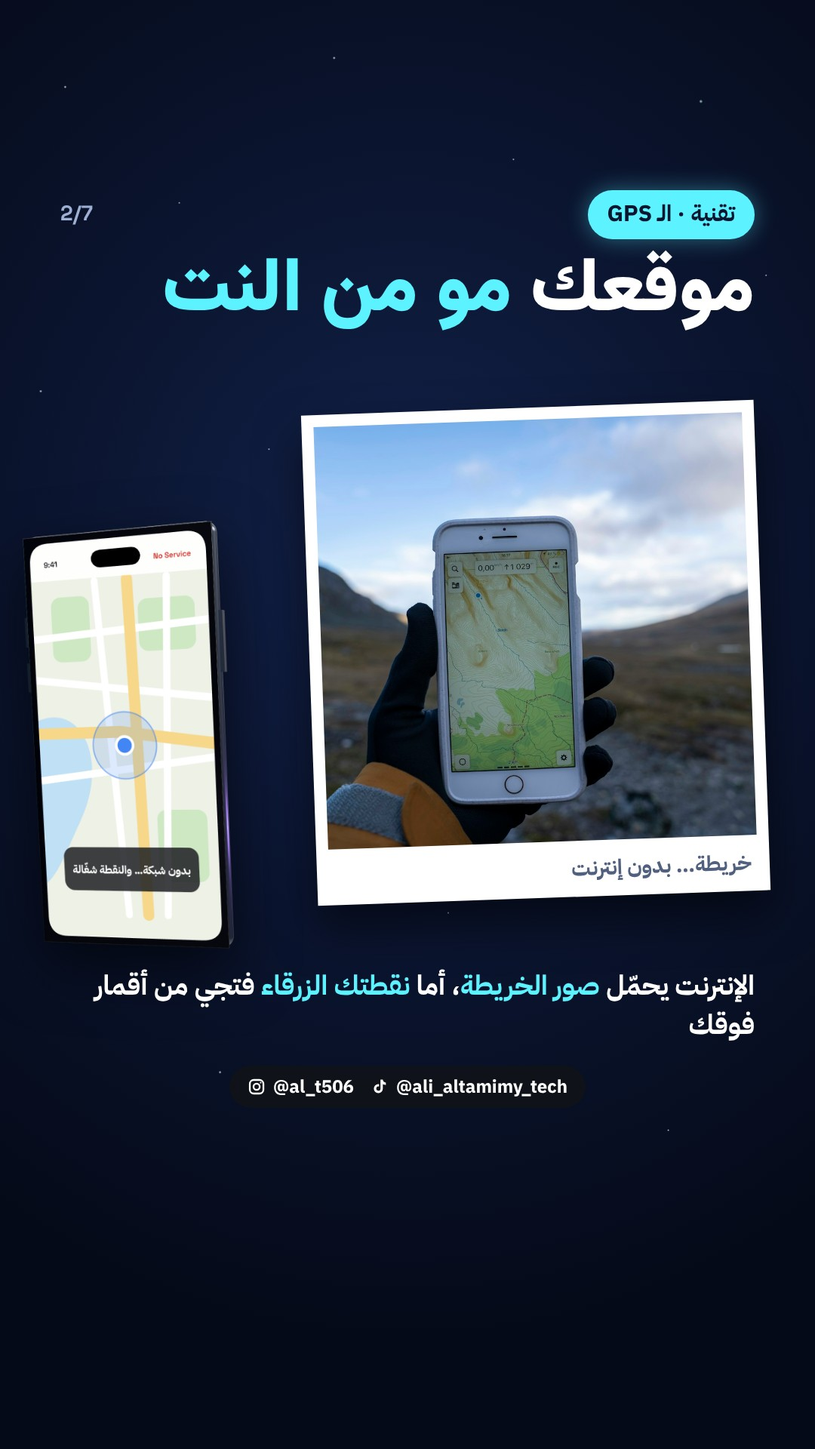
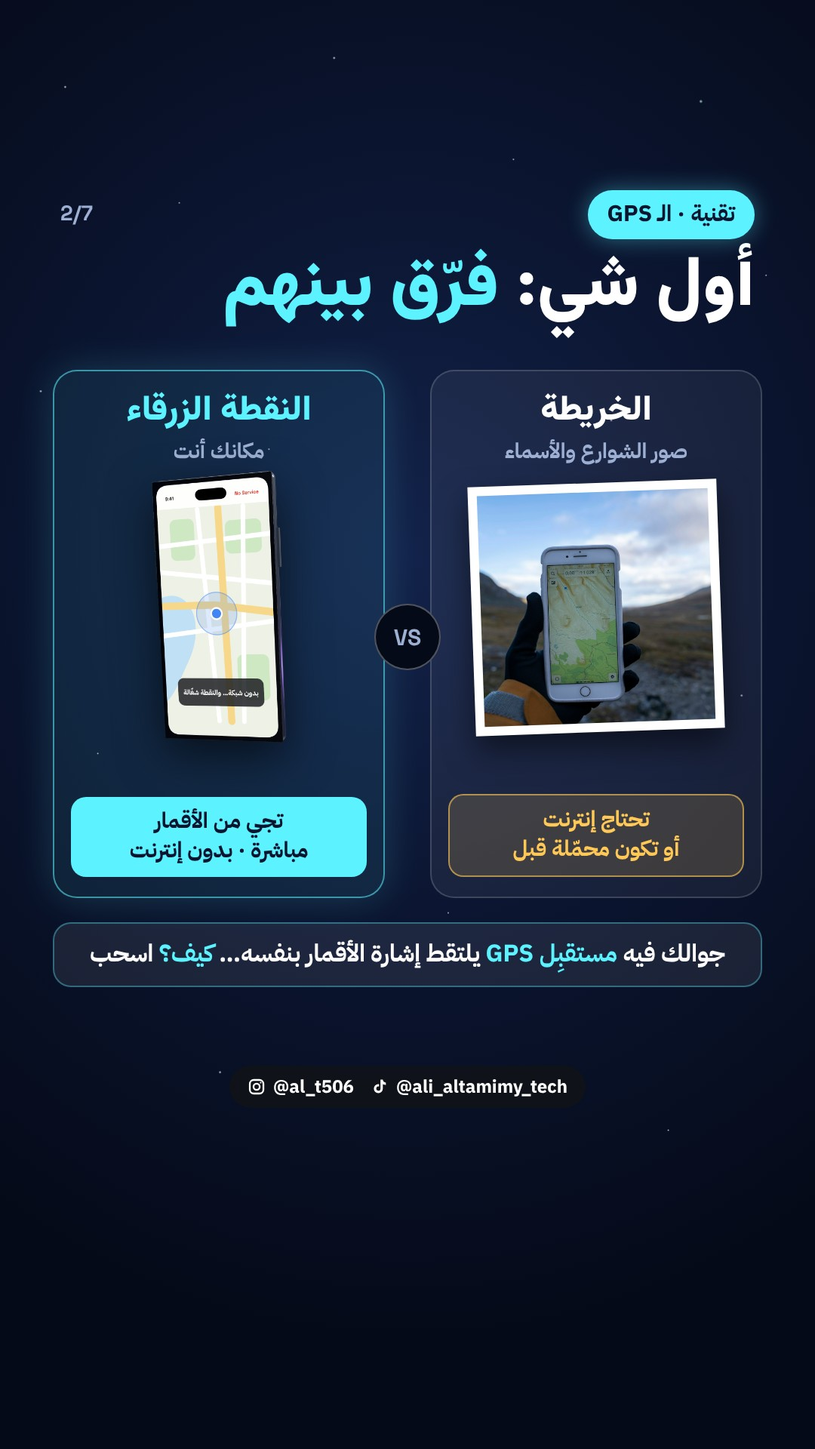
Redo GPS carousel as a clear 3-step explanation of offline positioning
Rebuild 2026-11-05 around satellite broadcast -> delay to distance
(lightning/thunder analogy) -> circle intersection, with a step progress
bar, SVG diagrams, and a corrected note on the fourth satellite.

Claude-Session: https://claude.ai/code/session_01EgEZRcQa5qrBxqbudDi5cV

Changed region(s): [[0.0306, 0.1562, 0.9472, 0.7188], [0.0611, 0.25, 0.0917, 0.2812]]

diff --git a/output/2026-11-05/design.html b/output/2026-11-05/design.html
@@ -12,66 +12,96 @@ body{background:#000;font-family:'IBM Plex Sans Arabic',sans-serif;-webkit-font-
 .en{font-family:'Space Grotesk';font-weight:700;direction:ltr;unicode-bidi:isolate;white-space:nowrap}
 .tag{position:absolute;top:252px;right:80px;display:flex;gap:12px;align-items:center;padding:8px 26px 12px;border-radius:40px;background:var(--cy);color:var(--ink);font:700 30px 'IBM Plex Sans Arabic';z-index:3;box-shadow:0 0 30px rgba(92,242,255,.4)}
 .pg{position:absolute;top:264px;left:80px;font:700 28px 'Space Grotesk';color:var(--mu);direction:ltr;z-index:3}
-h2{position:absolute;top:322px;right:80px;left:40px;line-height:1.3;white-space:nowrap}
+h2{position:absolute;top:322px;right:80px;left:40px;line-height:1.3;white-space:nowrap;font-size:92px}
 h2 em{font-style:normal;color:var(--cy)}
-.pill{position:absolute;padding:14px 26px 18px;border-radius:24px;background:rgba(255,255,255,.08);border:2px solid rgba(92,242,255,.35);font:700 33px/1.45 'IBM Plex Sans Arabic'}
+.pill{position:absolute;padding:16px 28px 20px;border-radius:24px;background:rgba(255,255,255,.08);border:2px solid rgba(92,242,255,.35);font:700 32px/1.45 'IBM Plex Sans Arabic'}
 .pill b{color:var(--cy)}
 
+/* شريط الخطوات */
+.steps{position:absolute;top:470px;right:80px;left:80px;display:flex;gap:14px;direction:rtl}
+.steps>div{flex:1;display:flex;align-items:center;gap:12px;padding:10px 18px 14px;border-radius:18px;background:rgba(255,255,255,.06);border:2px solid rgba(255,255,255,.14);font:700 27px 'IBM Plex Sans Arabic';color:var(--mu)}
+.steps>div>span{flex:none;display:grid;place-items:center;width:42px;height:42px;border-radius:50%;background:rgba(255,255,255,.12);font:700 24px 'Space Grotesk';color:#fff}
+.steps>div.on{background:var(--cy);border-color:var(--cy);color:var(--ink);box-shadow:0 0 30px rgba(92,242,255,.45)}
+.steps>div.on>span{background:var(--ink);color:var(--cy)}
+.steps>div.ok{border-color:rgba(127,240,200,.5);color:var(--mint)}
+.steps>div.ok>span{background:var(--mint);color:var(--ink)}
+
 /* ١ الغلاف */
-.s1 h1{position:absolute;top:322px;right:76px;left:30px;font-size:94px;line-height:1.3;white-space:nowrap;text-shadow:0 8px 40px rgba(0,0,0,.6)}
+.s1 h1{position:absolute;top:322px;right:76px;left:30px;font-size:96px;line-height:1.3;white-space:nowrap;text-shadow:0 8px 40px rgba(0,0,0,.6)}
 .s1 h1 em{display:block;font-style:normal;color:var(--cy)}
 .s1 .sub{position:absolute;top:610px;right:80px;font:700 40px/1.4 'IBM Plex Sans Arabic';color:#E6F2FF}
 .s1 .sub b{color:var(--mint)}
-.s1 .hero{position:absolute;top:650px;left:30px;width:1020px}
+.s1 .hero{position:absolute;top:660px;left:30px;width:1020px}
 .s1 .swipe{position:absolute;top:1398px;left:80px;padding:6px 22px 10px;border-radius:30px;background:rgba(5,10,24,.78);font:700 44px/1 'Vazirmatn';color:var(--cy)}
 .s1 .hbar{position:absolute;top:1404px;right:80px;display:flex;gap:26px;align-items:center;padding:12px 28px;border-radius:14px;background:rgba(5,10,24,.85);border:2px solid rgba(255,255,255,.2);color:#fff;font:700 28px 'IBM Plex Sans Arabic'}
 
-/* ٢ المشكلة */
-.s2 h2{font-size:100px}
-.s2 .pol{position:absolute;top:540px;right:70px;width:600px;height:650px;background:#fff;padding:16px 16px 74px;transform:rotate(-2deg);box-shadow:0 30px 60px rgba(0,0,0,.55)}
+/* ٢ شيئين مختلفين */
+.s2 .col{position:absolute;top:490px;width:440px;height:700px;border-radius:32px;padding:26px 26px 0;background:rgba(255,255,255,.06);border:2px solid rgba(255,255,255,.16);text-align:center}
+.s2 .col.a{right:70px}
+.s2 .col.b{left:70px;border-color:rgba(92,242,255,.55);background:rgba(92,242,255,.08);box-shadow:0 0 50px rgba(92,242,255,.18)}
+.s2 .col h3{font:900 46px/1.2 'Vazirmatn'}
+.s2 .col.b h3{color:var(--cy)}
+.s2 .col p{margin-top:6px;font:700 28px/1.4 'IBM Plex Sans Arabic';color:var(--mu)}
+.s2 .pol{margin:22px auto 0;width:330px;height:330px;background:#fff;padding:12px 12px 12px;transform:rotate(-2deg);box-shadow:0 20px 40px rgba(0,0,0,.5)}
 .s2 .pol img{width:100%;height:100%;object-fit:cover;object-position:40% 50%}
-.s2 .pol span{position:absolute;bottom:16px;right:24px;font:700 28px 'IBM Plex Sans Arabic';color:#51607F}
-.s2 .ph{position:absolute;top:690px;left:30px;width:280px;filter:drop-shadow(0 30px 40px rgba(0,0,0,.6))}
-.s2 .t{position:absolute;top:1280px;right:80px;left:80px;font:700 36px/1.45 'IBM Plex Sans Arabic'}
-.s2 .t b{color:var(--cy)}
+.s2 .ph{display:block;margin:6px auto 0;height:360px;filter:drop-shadow(0 20px 30px rgba(0,0,0,.6))}
+.s2 .need{position:absolute;bottom:26px;right:22px;left:22px;padding:12px 10px 16px;border-radius:20px;font:700 29px/1.35 'IBM Plex Sans Arabic'}
+.s2 .col.a .need{background:rgba(255,200,87,.16);border:2px solid rgba(255,200,87,.6);color:var(--amb)}
+.s2 .col.b .need{background:var(--cy);color:var(--ink)}
+.s2 .vs{position:absolute;top:800px;left:50%;margin-left:-44px;width:88px;height:88px;border-radius:50%;display:grid;place-items:center;background:var(--n0);border:2px solid rgba(255,255,255,.3);font:700 30px 'Space Grotesk';color:var(--mu);z-index:2}
+.s2 .t{top:1222px;right:70px;left:70px;text-align:center}
 
-/* ٣ الأقمار */
-.s3 h2{font-size:100px}
-.s3 .img{position:absolute;top:540px;left:20px;width:540px;filter:drop-shadow(0 20px 40px rgba(0,0,0,.5))}
-.s3 .cards{position:absolute;top:540px;right:70px;width:440px;display:flex;flex-direction:column;gap:18px}
-.s3 .c{padding:16px 22px 20px;border-radius:24px;background:rgba(255,255,255,.08);border:2px solid rgba(92,242,255,.35);font:700 31px/1.4 'IBM Plex Sans Arabic'}
-.s3 .c b{display:block;font:900 52px/1.2 'Vazirmatn';color:var(--cy)}
-.s3 .c i{display:block;margin-top:4px;font:600 25px/1.4 'IBM Plex Sans Arabic';font-style:normal;color:var(--mu)}
-.s3 .note{position:absolute;top:1190px;right:70px;left:70px}
+/* ٣ الخطوة ١ */
+.s3 .img{position:absolute;top:600px;left:10px;width:520px;filter:drop-shadow(0 20px 40px rgba(0,0,0,.5))}
+.s3 .bub{position:absolute;top:600px;right:70px;width:470px;padding:24px 28px 28px;border-radius:30px 30px 30px 6px;background:#fff;color:var(--ink);font:700 33px/1.45 'IBM Plex Sans Arabic';box-shadow:0 20px 50px rgba(0,0,0,.45)}
+.s3 .bub small{display:block;font:700 24px 'IBM Plex Sans Arabic';color:#51607F;margin-bottom:6px}
+.s3 .bub .clk{display:block;margin-top:10px;padding:8px 0 10px;border-radius:14px;background:var(--ink);color:var(--cy);text-align:center;font:700 40px 'Space Grotesk';direction:ltr}
+.s3 .rx{top:960px;right:70px;width:470px;font-size:30px}
+.s3 .facts{position:absolute;top:1214px;right:70px;left:70px;display:flex;gap:14px}
+.s3 .facts>div{flex:1;padding:12px 10px 16px;border-radius:20px;background:rgba(255,255,255,.06);border:2px solid rgba(255,255,255,.14);text-align:center;font:700 24px/1.35 'IBM Plex Sans Arabic';color:var(--mu)}
+.s3 .facts b{display:block;font:900 38px/1.25 'Vazirmatn';color:#fff}
 
-/* ٤ المسافة */
-.s4 h2{font-size:100px}
-.s4 .fm{position:absolute;top:490px;right:50px;left:50px;display:flex;align-items:center;gap:0;direction:rtl}
-.s4 .fm .b{flex:1;height:130px;display:flex;align-items:center;justify-content:center;text-align:center;padding:0 10px;border-radius:24px;background:rgba(255,255,255,.08);border:2px solid rgba(92,242,255,.4);font:700 29px/1.3 'IBM Plex Sans Arabic'}
-.s4 .fm .b.r{background:var(--cy);color:var(--ink);border-color:var(--cy);box-shadow:0 0 34px rgba(92,242,255,.5)}
-.s4 .fm .o{flex:none;width:46px;text-align:center;font:700 44px 'Space Grotesk';color:var(--mu)}
-.s4 .img{position:absolute;top:640px;left:140px;width:800px;-webkit-mask-image:radial-gradient(circle at 50% 50%,#000 48%,transparent 70%);mask-image:radial-gradient(circle at 50% 50%,#000 48%,transparent 70%)}
-.s4 .cap{position:absolute;top:1370px;right:70px;left:70px;text-align:center;font:700 32px/1.4 'IBM Plex Sans Arabic';color:#E6F2FF;display:none}
-.s4 .p1{top:1150px;right:60px;width:400px;font-size:30px;background:rgba(5,10,24,.8)}
-.s4 .p2{top:690px;right:60px;width:300px;font-size:28px;background:rgba(5,10,24,.8)}
+/* ٤ الخطوة ٢ */
+.s4 .ana{position:absolute;top:580px;right:70px;left:70px;padding:22px 30px 26px;border-radius:28px;background:rgba(255,200,87,.1);border:2px solid rgba(255,200,87,.5)}
+.s4 .ana h4{font:900 36px/1.3 'Vazirmatn';color:var(--amb)}
+.s4 .ana p{margin-top:6px;font:700 31px/1.45 'IBM Plex Sans Arabic'}
+.s4 .ana p b{color:var(--amb)}
+.s4 .tl{position:absolute;top:840px;right:70px;left:70px;height:330px;border-radius:28px;background:rgba(92,242,255,.07);border:2px solid rgba(92,242,255,.45)}
+.s4 .tl h4{position:absolute;top:18px;right:30px;font:900 36px/1.3 'Vazirmatn';color:var(--cy)}
+.s4 .tl svg{position:absolute;top:80px;left:30px}
+.s4 .row{position:absolute;display:flex;flex-direction:column;align-items:center;gap:2px;font:700 25px/1.3 'IBM Plex Sans Arabic';color:var(--mu)}
+.s4 .row .en{font-size:34px;color:#fff}
+.s4 .row.r1{top:200px;right:40px}
+.s4 .row.r2{top:200px;left:40px}
+.s4 .row.r2 .en{color:var(--cy)}
+.s4 .dly{position:absolute;top:96px;left:50%;transform:translateX(-50%);padding:6px 20px 10px;border-radius:30px;background:var(--cy);color:var(--ink);font:700 28px 'IBM Plex Sans Arabic';white-space:nowrap}
+.s4 .eq{position:absolute;top:1196px;right:70px;left:70px;display:flex;align-items:center;direction:rtl}
+.s4 .eq .b{flex:1;height:118px;display:flex;flex-direction:column;align-items:center;justify-content:center;text-align:center;border-radius:22px;background:rgba(255,255,255,.08);border:2px solid rgba(92,242,255,.4);font:700 23px/1.3 'IBM Plex Sans Arabic';color:var(--mu)}
+.s4 .eq .b .en{font-size:34px;color:#fff}
+.s4 .eq .b.r{background:var(--cy);border-color:var(--cy);color:var(--ink);box-shadow:0 0 34px rgba(92,242,255,.5)}
+.s4 .eq .b.r .en{color:var(--ink)}
+.s4 .eq .o{flex:none;width:44px;text-align:center;font:700 42px 'Space Grotesk';color:var(--mu)}
+.s4 .nt{position:absolute;top:1330px;right:70px;left:70px;text-align:center;font:600 24px 'IBM Plex Sans Arabic';color:var(--mu)}
 
-/* ٥ النتيجة */
-.s5 h2{font-size:100px}
-.s5 .img{position:absolute;top:520px;left:20px;width:560px;filter:drop-shadow(0 24px 40px rgba(0,0,0,.55))}
-.s5 .big{position:absolute;top:560px;right:70px;width:410px;text-align:center}
-.s5 .big .n{font:700 190px/1 'Space Grotesk';color:var(--cy);direction:ltr;text-shadow:0 0 50px rgba(92,242,255,.5)}
-.s5 .big .u{font:900 56px/1.2 'Vazirmatn'}
-.s5 .big .d{margin-top:10px;font:700 31px/1.45 'IBM Plex Sans Arabic';color:#E6F2FF}
-.s5 .pill.w{top:1170px;right:70px;left:70px;border-color:rgba(255,200,87,.6)}
-.s5 .pill.w b{color:var(--amb)}
+/* ٥ الخطوة ٣ */
+.s5 .rw{position:absolute;right:70px;left:70px;height:226px;display:flex;align-items:center;gap:26px;padding:0 26px 0 14px;border-radius:28px;background:rgba(255,255,255,.05);border:2px solid rgba(255,255,255,.14)}
+.s5 .rw.r1{top:576px}.s5 .rw.r2{top:822px}.s5 .rw.r3{top:1068px;background:rgba(92,242,255,.09);border-color:rgba(92,242,255,.6);box-shadow:0 0 40px rgba(92,242,255,.2)}
+.s5 .rw .tx{flex:1;font:700 31px/1.4 'IBM Plex Sans Arabic'}
+.s5 .rw .tx b{display:block;font:900 42px/1.25 'Vazirmatn';color:var(--cy)}
+.s5 .rw svg{flex:none}
+.s5 .p4{top:1314px;right:70px;left:70px;font-size:27px;padding:12px 26px 14px;border-color:rgba(197,139,255,.5)}
+.s5 .p4 b{color:var(--vio)}
 
-/* ٦ وين يضعف */
-.s6 h2{font-size:100px}
-.s6 .img{position:absolute;top:520px;left:20px;width:520px;filter:drop-shadow(0 24px 40px rgba(0,0,0,.55))}
-.s6 .lst{position:absolute;top:520px;right:70px;width:470px;display:flex;flex-direction:column;gap:16px}
-.s6 .it{display:flex;gap:14px;align-items:flex-start;padding:16px 20px 18px;border-radius:24px;background:rgba(255,255,255,.08);border:2px solid rgba(255,255,255,.18);font:700 29px/1.4 'IBM Plex Sans Arabic'}
-.s6 .it>span{flex:none;display:grid;place-items:center;width:46px;height:46px;border-radius:50%;background:var(--amb);color:var(--ink);font:700 26px 'Space Grotesk'}
-.s6 .it i{display:block;margin-top:4px;font:600 24px/1.4 'IBM Plex Sans Arabic';font-style:normal;color:var(--mu)}
+/* ٦ عملياً */
+.s6 .img{position:absolute;top:500px;left:20px;width:470px;filter:drop-shadow(0 24px 40px rgba(0,0,0,.55))}
+.s6 .big{position:absolute;top:520px;right:70px;width:470px;padding:20px 20px 24px;border-radius:30px;text-align:center;background:rgba(92,242,255,.08);border:2px solid rgba(92,242,255,.5)}
+.s6 .big .n{font:700 150px/1 'Space Grotesk';color:var(--cy);direction:ltr;text-shadow:0 0 50px rgba(92,242,255,.5)}
+.s6 .big .u{font:900 50px/1.2 'Vazirmatn'}
+.s6 .big .d{margin-top:6px;font:700 27px/1.4 'IBM Plex Sans Arabic';color:#E6F2FF}
+.s6 .lst{position:absolute;top:930px;right:70px;left:70px;display:flex;flex-direction:column;gap:14px}
+.s6 .it{display:flex;gap:16px;align-items:center;padding:14px 22px 16px;border-radius:24px;background:rgba(255,255,255,.07);border:2px solid rgba(255,255,255,.16);font:700 30px/1.35 'IBM Plex Sans Arabic'}
+.s6 .it>span{flex:none;display:grid;place-items:center;width:48px;height:48px;border-radius:50%;background:var(--amb);color:var(--ink);font:700 26px 'Space Grotesk'}
+.s6 .it i{display:block;margin-top:2px;font:600 25px/1.4 'IBM Plex Sans Arabic';font-style:normal;color:var(--mu)}
 
 /* ٧ المتابعة */
 .s7 h2{font-size:84px;text-align:center;right:60px;left:60px;line-height:1.35}
@@ -91,77 +121,131 @@ h2 em{font-style:normal;color:var(--cy)}
 <section class="slide s1">
   <div class="stars" data-safe="ignore"></div>
   <div class="tag">تقنية · الـ GPS</div>
-  <h1 class="hd">الإنترنت مقطوع…<em>والخريطة تعرف مكانك؟</em></h1>
-  <div class="sub">السر مو بالإنترنت… <b>السر بالفضاء</b></div>
+  <h1 class="hd">بدون إنترنت…<em>كيف جوالك يعرف وينك؟</em></h1>
+  <div class="sub">الجواب <b>3 خطوات</b>… من الفضاء لجيبك</div>
   <img class="hero" src="assets/k0.png" alt="">
   <div class="swipe">اسحب ←</div>
   <div class="hbar">{{HANDLES}}</div>
 </section>
 
-<!-- ٢ المشكلة -->
+<!-- ٢ شيئين مختلفين -->
 <section class="slide s2">
   <div class="stars" data-safe="ignore"></div>
   <div class="tag">تقنية · الـ GPS</div>
   <div class="pg">2/7</div>
-  <h2 class="hd">موقعك <em>مو من النت</em></h2>
-  <div class="pol"><img src="assets/hand.jpg" alt=""><span>خريطة… بدون إنترنت</span></div>
-  <img class="ph" src="assets/k5.png" alt="">
-  <div class="t">الإنترنت يحمّل <b>صور الخريطة</b>، أما <b>نقطتك الزرقاء</b> فتجي من أقمار فوقك</div>
+  <h2 class="hd">أول شي: <em>فرّق بينهم</em></h2>
+  <div class="col a">
+    <h3>الخريطة</h3>
+    <p>صور الشوارع والأسماء</p>
+    <div class="pol"><img src="assets/hand.jpg" alt=""></div>
+    <div class="need">تحتاج إنترنت<br>أو تكون محمّلة قبل</div>
+  </div>
+  <div class="vs">VS</div>
+  <div class="col b">
+    <h3>النقطة الزرقاء</h3>
+    <p>مكانك أنت</p>
+    <img class="ph" src="assets/k5.png" alt="">
+    <div class="need">تجي من الأقمار<br>مباشرة · بدون إنترنت</div>
+  </div>
+  <div class="pill t">جوالك فيه <b>مستقبِل GPS</b> يلتقط إشارة الأقمار بنفسه… <b>كيف؟</b> اسحب</div>
 </section>
 
-<!-- ٣ الأقمار -->
+<!-- ٣ الخطوة ١ -->
 <section class="slide s3">
   <div class="stars" data-safe="ignore"></div>
   <div class="tag">تقنية · الـ GPS</div>
   <div class="pg">3/7</div>
-  <h2 class="hd">أقمار <em>تبثّ الوقت</em></h2>
+  <h2 class="hd">القمر <em>ينادي</em></h2>
+  <div class="steps"><div class="on"><span>1</span>القمر يبث</div><div><span>2</span>الجوال يحسب</div><div><span>3</span>نقطتك</div></div>
   <img class="img" src="assets/k1.png" alt="">
-  <div class="cards">
-    <div class="c"><b><span class="en">20,200</span> كم</b>ارتفاعها تقريباً فوق الأرض<i>مدار متوسط</i></div>
-    <div class="c"><b>+30 قمر</b>شغّالة الحين<i>(31 حسب gps.gov يوليو 2023)</i></div>
-    <div class="c"><b>ساعة دقيقة</b>كل قمر يبث وقته وموقعه باستمرار</div>
+  <div class="bub"><small>رسالة كل قمر، باستمرار:</small>«أنا هنا بالضبط… والساعة عندي الحين:»<span class="clk">10:00:00.000</span></div>
+  <div class="pill rx">إشارة راديو <b>باتجاه واحد</b> من القمر لجوالك، مثل <b>راديو السيارة</b>: يستقبل بدون إنترنت</div>
+  <div class="facts">
+    <div><b><span class="en">20,200</span> كم</b>ارتفاع الأقمار تقريباً</div>
+    <div><b>31 قمر</b>شغّالة <span class="en" style="font-size:20px">(gps.gov 2023)</span></div>
+    <div><b>ساعات ذرّية</b>داخل الأقمار</div>
   </div>
-  <div class="pill note">تشغّلها <b>قوة الفضاء الأمريكية</b>، والخدمة المدنية <b>متاحة للجميع مجاناً</b> حول العالم</div>
 </section>
 
-<!-- ٤ المسافة -->
+<!-- ٤ الخطوة ٢ -->
 <section class="slide s4">
   <div class="stars" data-safe="ignore"></div>
   <div class="tag">تقنية · الـ GPS</div>
   <div class="pg">4/7</div>
-  <h2 class="hd">الوقت ← <em>المسافة</em></h2>
-  <div class="fm">
-    <div class="b">زمن وصول الإشارة</div><div class="o">×</div>
-    <div class="b">سرعة الضوء</div><div class="o">=</div>
-    <div class="b r">المسافة للقمر</div>
+  <h2 class="hd">كم <em>تأخرت الرسالة؟</em></h2>
+  <div class="steps"><div class="ok"><span>1</span>القمر يبث</div><div class="on"><span>2</span>الجوال يحسب</div><div><span>3</span>نقطتك</div></div>
+  <div class="ana">
+    <h4>نفس فكرة البرق والرعد ⚡</h4>
+    <p>تشوف البرق، وتعدّ <b>3 ثواني</b> لين يوصلك الرعد… يعني العاصفة بعيدة عنك <b style="white-space:nowrap">تقريباً 1 كم</b></p>
   </div>
-  <img class="img" src="assets/k2.png" alt="">
-  <div class="pill p2">كل قمر = <b>كرة مسافة</b>، وأنت عند <b>التقائها</b></div>
-  <div class="pill p1"><b>٣ أقمار</b> للمكان على الخريطة، و<b>٤</b> مع الارتفاع، والساعات تتزامن بدقة عالية جداً</div>
+  <div class="tl">
+    <h4>جوالك يسوي نفس الشي</h4>
+    <svg width="880" height="120" viewBox="0 0 880 120" data-safe="ignore">
+      <defs><marker id="ar" markerWidth="14" markerHeight="14" refX="10" refY="7" orient="auto"><path d="M0 0 L14 7 L0 14z" fill="#5CF2FF"/></marker></defs>
+      <line x1="830" y1="50" x2="60" y2="50" stroke="#5CF2FF" stroke-width="5" stroke-dasharray="16 12" marker-end="url(#ar)"/>
+      <circle cx="840" cy="50" r="22" fill="#fff"/><rect x="800" y="44" width="80" height="12" rx="4" fill="#9DB0D3"/>
+      <rect x="22" y="14" width="40" height="72" rx="9" fill="#13224A" stroke="#5CF2FF" stroke-width="4"/><circle cx="42" cy="50" r="7" fill="#5CF2FF"/>
+    </svg>
+    <div class="dly">التأخير: <span class="en">0.067</span> ثانية</div>
+    <div class="row r1"><span class="en">10:00:00.000</span>طلعت من القمر</div>
+    <div class="row r2"><span class="en">10:00:00.067</span>وصلت جوالك</div>
+  </div>
+  <div class="eq">
+    <div class="b"><span class="en">0.067</span>ثانية تأخير</div><div class="o">×</div>
+    <div class="b"><span class="en">300,000</span>كم/ث سرعة الضوء</div><div class="o">=</div>
+    <div class="b r"><span class="en">~20,000</span>كم بُعدك عن القمر</div>
+  </div>
+  <div class="nt">الأرقام تقريبية للتوضيح · سرعة الضوء تقريباً 300 ألف كم بالثانية</div>
 </section>
 
-<!-- ٥ النتيجة -->
+<!-- ٥ الخطوة ٣ -->
 <section class="slide s5">
   <div class="stars" data-safe="ignore"></div>
   <div class="tag">تقنية · الـ GPS</div>
   <div class="pg">5/7</div>
-  <h2 class="hd">والنتيجة: <em>نقطتك</em></h2>
-  <img class="img" src="assets/k3.png" alt="">
-  <div class="big"><div class="n">4.9</div><div class="u">متر</div><div class="d">دقة جوالك تقريباً تحت سماء مفتوحة <span class="en" style="font-size:26px;color:#9DB0D3">(gps.gov)</span></div></div>
-  <div class="pill w">الدقة <b>تضعف</b> قرب المباني والجسور والأشجار</div>
+  <h2 class="hd">والدوائر <em>تتقاطع</em></h2>
+  <div class="steps"><div class="ok"><span>1</span>القمر يبث</div><div class="ok"><span>2</span>الجوال يحسب</div><div class="on"><span>3</span>نقطتك</div></div>
+  <div class="rw r1">
+    <svg width="222" height="216" viewBox="-66 -66 446 434" data-safe="ignore">
+      <circle cx="60" cy="60" r="114" fill="rgba(92,242,255,.08)" stroke="#5CF2FF" stroke-width="7"/>
+      <circle cx="60" cy="60" r="16" fill="#fff"/>
+    </svg>
+    <div class="tx"><b>قمر واحد</b>تعرف بُعدك عنه، يعني أنت في أي مكان على هالدائرة</div>
+  </div>
+  <div class="rw r2">
+    <svg width="222" height="216" viewBox="-66 -66 446 434" data-safe="ignore">
+      <circle cx="60" cy="60" r="114" fill="none" stroke="#5CF2FF" stroke-width="7"/>
+      <circle cx="250" cy="80" r="112" fill="none" stroke="#C58BFF" stroke-width="7"/>
+      <circle cx="60" cy="60" r="16" fill="#fff"/><circle cx="250" cy="80" r="16" fill="#fff"/>
+      <circle cx="150" cy="130" r="16" fill="#FFC857"/><circle cx="163" cy="10" r="16" fill="#FFC857"/>
+    </svg>
+    <div class="tx"><b>قمرين</b>الدائرتين تتقاطع بنقطتين، باقي احتمالين</div>
+  </div>
+  <div class="rw r3">
+    <svg width="222" height="216" viewBox="-66 -66 446 434" data-safe="ignore">
+      <circle cx="60" cy="60" r="114" fill="none" stroke="#5CF2FF" stroke-width="7"/>
+      <circle cx="250" cy="80" r="112" fill="none" stroke="#C58BFF" stroke-width="7"/>
+      <circle cx="140" cy="240" r="110" fill="none" stroke="#7FF0C8" stroke-width="7"/>
+      <circle cx="60" cy="60" r="16" fill="#fff"/><circle cx="250" cy="80" r="16" fill="#fff"/><circle cx="140" cy="240" r="16" fill="#fff"/>
+      <circle cx="150" cy="130" r="40" fill="rgba(92,242,255,.35)"/><circle cx="150" cy="130" r="20" fill="#2F7BFF" stroke="#fff" stroke-width="6"/>
+    </svg>
+    <div class="tx"><b>3 أقمار = نقطة وحدة</b>المكان الوحيد اللي يناسب الثلاث مسافات = أنت</div>
+  </div>
+  <div class="pill p4"><b>وقمر رابع</b> يصحّح ساعة جوالك (مو ذرّية) · وبالواقع هي كرات مو دوائر</div>
 </section>
 
-<!-- ٦ وين يضعف -->
+<!-- ٦ عملياً -->
 <section class="slide s6">
   <div class="stars" data-safe="ignore"></div>
   <div class="tag">تقنية · الـ GPS</div>
   <div class="pg">6/7</div>
-  <h2 class="hd">وين <em>يضعف؟</em></h2>
+  <h2 class="hd">وش يعني <em>لك؟</em></h2>
   <img class="img" src="assets/k4.png" alt="">
+  <div class="big"><div class="n">4.9</div><div class="u">متر</div><div class="d">دقة الجوال تقريباً تحت سماء مفتوحة <span class="en" style="font-size:22px;color:#9DB0D3">(gps.gov)</span></div></div>
   <div class="lst">
-    <div class="it"><span>1</span><div>بين المباني العالية<i>الإشارة تنحجب فتضعف الدقة</i></div></div>
-    <div class="it"><span>2</span><div>أول تحديد بدون اتصال<i>أبطأ، والاتصال يسرّعه <span class="en" style="font-size:22px">(A-GPS)</span></i></div></div>
-    <div class="it"><span>3</span><div>الخريطة نفسها<i>نزّل منطقتها قبل السفر (حسب تطبيقك)</i></div></div>
+    <div class="it"><span>1</span><div>بين المباني والجسور والأشجار<i>الإشارة تنحجب أو ترتد، فتقل الدقة</i></div></div>
+    <div class="it"><span>2</span><div>أول تحديد بدون نت أبطأ شوي<i>الاتصال يسرّعه فقط <span class="en" style="font-size:22px">(A-GPS)</span>، مو شرط</i></div></div>
+    <div class="it"><span>3</span><div>نزّل خريطة منطقتك قبل السفر<i>النقطة تشتغل، بس الشوارع تبي صور محمّلة</i></div></div>
   </div>
 </section>
 
@@ -170,12 +254,12 @@ h2 em{font-style:normal;color:var(--cy)}
   <div class="stars" data-safe="ignore"></div>
   <div class="tag">تقنية · الـ GPS</div>
   <div class="pg">7/7</div>
-  <h2 class="hd">جوالك يسمع الفضاء…<br><em>وانت ما تدري</em></h2>
+  <h2 class="hd">جوالك ما يسأل النت…<br><em>يسمع الفضاء</em></h2>
   <div class="ring"><div class="face"><img src="{{AVATAR}}" alt=""></div></div>
   <div class="nm">علي التميمي</div>
   <div class="ds">كل يوم معلومة تقنية تهمّك</div>
   <div class="soc"><div>{{HANDLES}}</div></div>
-  <div class="ask">وين آخر مرة اعتمدت على الـ GPS بدون نت؟</div>
+  <div class="ask">أرسلها لأحد يحسب الـ GPS يحتاج نت 👇</div>
 </section>
 
 </body>

diff --git a/output/2026-11-05/lesson.md b/output/2026-11-05/lesson.md
@@ -3,10 +3,10 @@
 ## الفكرة
 الإنترنت المقطوع يوقف **صور الخريطة** (لو ما نزّلتها)، لكنه ما يوقف **موقعك**. النقطة الزرقاء تجي من **أقمار GPS** فوقك، وجوالك يستقبل إشارتها ويحسب مكانه بنفسه.
 
-## كيف؟
-1. **الأقمار:** تدور في مدار متوسط على ارتفاع قرابة **20,200 كم**. الولايات المتحدة ملتزمة بإبقاء **24 قمراً شغّالاً على الأقل** (95% من الوقت) موزعة على **ستة مدارات**، وعملياً فيه أكثر (أكثر من 30؛ سجّلت gps.gov **31** قمراً شغّالاً في يوليو 2023). كل قمر **يبث وقته الدقيق وموقعه** باستمرار، وتشغّلها **قوة الفضاء الأمريكية**، والخدمة المدنية **متاحة للجميع مجاناً** حول العالم.
-2. **الوقت ← المسافة:** جوالك يقارن وقت إرسال الإشارة بوقت وصولها، ويضرب الفرق في **سرعة الضوء** فيطلع له بُعده عن القمر. الطريقة تعتمد على ساعات متزامنة بدقة عالية جداً (أجزاء من مليار من الثانية).
-3. **التقاطع:** كل قمر يعطيك **كرة مسافة**. من **٣ أقمار** تحدد مكانك على الخريطة، ومع **٤ أقمار** تعرف الارتفاع أيضاً. ونقطتك عند التقاء الكرات.
+## كيف؟ (3 خطوات)
+1. **القمر يبث:** الأقمار في مدار متوسط على ارتفاع قرابة **20,200 كم** (ملتزمة الولايات المتحدة بـ24 قمراً شغّالاً على الأقل 95% من الوقت في ستة مدارات، وسجّلت gps.gov **31** في يوليو 2023). كل قمر **يبث إشارة باتجاه واحد** فيها موقعه ووقته الدقيق (ساعات ذرّية)، وجوالك يستقبلها بمستقبِل الـ GPS مثل ما يستقبل راديو السيارة المحطة، بدون إنترنت. تشغّلها **قوة الفضاء الأمريكية** والخدمة المدنية مجانية.
+2. **الجوال يحسب التأخير:** مثل البرق والرعد (3 ثواني ≈ 1 كم). زمن الوصول = وقت الوصول − وقت الإرسال، والمسافة = الزمن × سرعة الضوء (~300 ألف كم/ث). مثال تقريبي: 0.067 ثانية ≈ 20,000 كم.
+3. **التقاطع:** مسافة قمر واحد = أنت على دائرة (بالواقع كرة) حوله؛ قمرين = نقطتين محتملة؛ 3 أقمار = نقطة وحدة. وساعة الجوال مو ذرّية، فيحتاج **قمر رابع** يحل خطأ ساعته مع الموقع (4 مجاهيل: x, y, z, والوقت). وغلطة جزء من مليون ثانية = ~300 متر.
 
 ## الدقة
 تقول gps.gov إن الجوالات تكون دقيقتها عادةً ضمن دائرة نصف قطرها **4.9 متر** تحت سماء مفتوحة، و**تضعف** قرب المباني والجسور والأشجار.
@@ -22,10 +22,16 @@
 «الـ GPS يحتاج نت». الموقع لا، **الخريطة والبحث وحركة المرور** هي اللي تحتاجه.
 
 ## المصادر (تحقق 2026-11-05)
+- GPS.gov (أرشيف): الأقمار تبث إشارات باتجاه واحد، والمستقبل يحسب موقعه منها: https://webarchive.library.unt.edu/eot2008/20080916003723/http:/gps.gov/systems/gps/index.html
+- GPS.gov: ملصق «How GPS Works» (زمن الوصول × سرعة الضوء = المسافة): https://www.gps.gov/multimedia/poster/poster-web.pdf
+- Penn State GEOG 862: The Navigation Solution (القمر الرابع لخطأ ساعة المستقبل): https://www.e-education.psu.edu/geog862/node/1724
+- قاعدة البرق والرعد (3 ثواني ≈ 1 كم): Hong Kong Observatory: https://www.hko.gov.hk/en/education/weather/meteorology-basics/00021-why-does-lightning-always-come-before-thunder.html و ScienceNotes: https://sciencenotes.org/time-between-lightning-and-thunder-how-far-away-is-lightning/
 - GPS.gov: Space Segment (24 قمراً، ستة مدارات، 20,200 كم، أكثر من 24 عملياً، 31 قمراً يوليو 2023، الخدمة المدنية متاحة للجميع): https://www.gps.gov/space-segment
 - GPS.gov: GPS Accuracy (دقة الجوالات 4.9 م تحت سماء مفتوحة، وتضعف قرب المباني والجسور والأشجار): https://www.gps.gov/systems/gps/performance/accuracy/
 - U.S. Space Force: Global Positioning System (التشغيل): https://www.spaceforce.mil/about-us/fact-sheets/article/2197765/global-positioning-system/
 - NASA: GPS: https://www.nasa.gov/directorates/somd/space-communications-navigation-program/gps/
-- شرح الحساب (٣ أقمار للمكان و٤ للارتفاع، الوقت ← المسافة بسرعة الضوء): HowStuffWorks: https://electronics.howstuffworks.com/gps.htm (مصدر ثانوي)
+- شرح الحساب (الوقت ← المسافة بسرعة الضوء): HowStuffWorks: https://electronics.howstuffworks.com/gps.htm (مصدر ثانوي)
 
 > www.gps.gov (المصدر المرشّح في بنك المواضيع) ما يفتح من الحاوية (WebFetch)، فتحققت بـ WebSearch على نفس الصفحات الرسمية. وشرح «٣ أقمار و٤ أقمار» والتزامن من مصادر ثانوية؛ وتفاصيل الخرائط دون اتصال حسب كل تطبيق ما تحققت منها فكتبتها عامة، وما ذكرت أن مستقبل الجوال لا يرسل شيئاً لأني ما قدرت أثبتها نصاً.
+
+> تعديل بعد ملاحظة علي: الشرح الأول ما وضّح «كيف يعرف بدون نت»، فأعدت الصياغة كـ3 خطوات بتشبيه البرق والرعد، وصححت دور القمر الرابع (تصحيح ساعة الجوال، مو الارتفاع فقط).

diff --git a/output/2026-11-05/design-brief.md b/output/2026-11-05/design-brief.md
@@ -1,16 +1,15 @@
-# «أربعة أقمار… نقطة وحدة»: سماء ليلية وأقمار 3D وكرات مسافة
+# «3 خطوات من الفضاء لجيبك»: سماء ليلية وشريط خطوات ودوائر تتقاطع (نسخة معدّلة)
 
-- **الاستعارة:** جوالك يسمع الفضاء. أقمار 3D ترسل أشعة مضيئة لجوال على كرة أرضية (الغلاف)، ثم قمر يبث موجات وساعة دقيقة، ثم **كرات مسافة** (ثلاث كرات شبه شفافة بشبكة) تتقاطع في نقطة مضيئة هي موقعك.
-- **الغلاف (داكن):** سماء ليلية #050A18 / #0B1530 / #13224A بنجوم خفيفة، عنوان «الإنترنت مقطوع… / والخريطة تعرف مكانك؟» (الثاني سيان)، وتحته لقطة 3D: أربعة أقمار وأشعة سيان لجوال بخريطة، وتحته كرة أرضية NASA Blue Marble، و«السر مو بالإنترنت… السر بالفضاء». (أمس كان الفيديو فاتح.)
-- **الألوان:** سيان #5CF2FF، نعناعي #7FF0C8، بنفسجي #C58BFF، عنبري #FFC857 للتحذير، أحمر #FF6B6B للإشارة المحجوبة.
-- **الخطوط:** Vazirmatn 900 للعناوين (خارج آخر 10 تصاميم)، IBM Plex Sans Arabic للنص، Space Grotesk للأرقام.
-- **3D (@remotion/three، عناصر جديدة في `lib/three3d/Sky.tsx`):** `Beam` شعاع مضيء بين نقطتين، `SignalRings` موجات إشارة، `DistSphere` كرة مسافة بشبكة وتوهج، `Building` مبنى بنوافذ مضيئة، `Pin` دبوس خريطة، `ClockDial` ساعة. ومعها `Globe` و`Satellite` من `Ocean.tsx` و`Phone`. اللقطات من تكوين `SkyKit` (فريم لكل لقطة، PNG شفاف scale 1.5 مقصوص).
+- **سبب التعديل:** ملاحظة علي: ما كان واضح كيف يُعرف الموقع بدون إنترنت. فصار الكاروسيل **قصة سببية بثلاث خطوات** مع **شريط تقدم** ثابت (القمر يبث ← الجوال يحسب ← نقطتك) يتلوّن حسب الخطوة.
+- **الاستعارة:** جوالك يسمع الفضاء + تشبيه **البرق والرعد** لحساب المسافة من التأخير.
+- **الألوان والخطوط:** نفس السماء الليلية #050A18 / #0B1530 / #13224A، سيان #5CF2FF، نعناعي #7FF0C8، بنفسجي #C58BFF، عنبري #FFC857. Vazirmatn 900، IBM Plex Sans Arabic، Space Grotesk.
 - **خريطة الشرائح:**
-  1. الغلاف (k0).
-  2. المشكلة: «موقعك مو من النت»: صورة حقيقية ليد بقفاز تمسك جوال بخريطة في الجبال (بولارويد) + جوال 3D «بدون شبكة… والنقطة شغّالة» (k5).
-  3. أقمار تبث الوقت: قمر وموجات وساعة (k1) + 20,200 كم، +30 قمر، ساعة دقيقة، وقوة الفضاء الأمريكية والمجانية.
-  4. الوقت ← المسافة: معادلة (زمن الإشارة × سرعة الضوء = المسافة) + كرات المسافة (k2) + ٣ أقمار/٤.
-  5. النتيجة: جوال بخريطة ودقة ±4.9 م (k3) وبجانبه الرقم 4.9 متر ودبوس 3D.
-  6. وين يضعف: مباني تحجب الإشارة (k4) + ثلاث نقاط (المباني، أول تحديد/A-GPS، تنزيل الخريطة).
-  7. المتابعة: صورة علي بحلقة سيان وبنفسجية والحسابان والسؤال.
-- **العناصر الحقيقية:** صورة Unsplash ليد تمسك جوال بخريطة (1623390003556-8e69722b66d0)، خريطة NASA Blue Marble على الكرة، صورة علي. **ما فيه شعار جهة** (الموضوع عام). شاشات الجوال **رسم توضيحي عام** (خريطة مرسومة مو من تطبيق).
+  1. الغلاف: «بدون إنترنت… / كيف جوالك يعرف وينك؟» + «الجواب 3 خطوات… من الفضاء لجيبك» + لقطة 3D (k0).
+  2. «أول شي: فرّق بينهم»: عمودين VS: الخريطة (صورة حقيقية بولارويد) ← تحتاج إنترنت أو تحميل مسبق | النقطة الزرقاء (جوال 3D k5) ← من الأقمار مباشرة.
+  3. الخطوة 1 «القمر ينادي»: قمر 3D وموجات وساعة (k1) + فقاعة كلام «أنا هنا… والساعة 10:00:00.000» + إشارة باتجاه واحد مثل راديو السيارة + 20,200 كم / 31 قمر / ساعات ذرّية.
+  4. الخطوة 2 «كم تأخرت الرسالة؟»: بطاقة البرق والرعد + خط زمني SVG (قمر ← جوال، 0.067 ث) + معادلة 0.067 × 300,000 = ~20,000 كم.
+  5. الخطوة 3 «والدوائر تتقاطع»: ثلاث صفوف SVG (دائرة ← نقطتين ← نقطة وحدة) + القمر الرابع يصحح ساعة الجوال.
+  6. «وش يعني لك؟»: مباني 3D (k4) + 4.9 متر + ثلاث نصائح.
+  7. المتابعة.
+- **العناصر الحقيقية:** صورة Unsplash (1623390003556-8e69722b66d0)، خريطة NASA Blue Marble على الكرة، صورة علي. الشاشات رسم عام.
+- **نقد ذاتي:** النسخة الأولى كانت جميلة بصرياً لكنها قفزت من «الأقمار تبث» إلى «كرات المسافة» بدون مثال ملموس. التشبيه اليومي + أرقام مثال + رسم تدريجي 1→2→3 يخلي المنطق يمشي خطوة خطوة.
